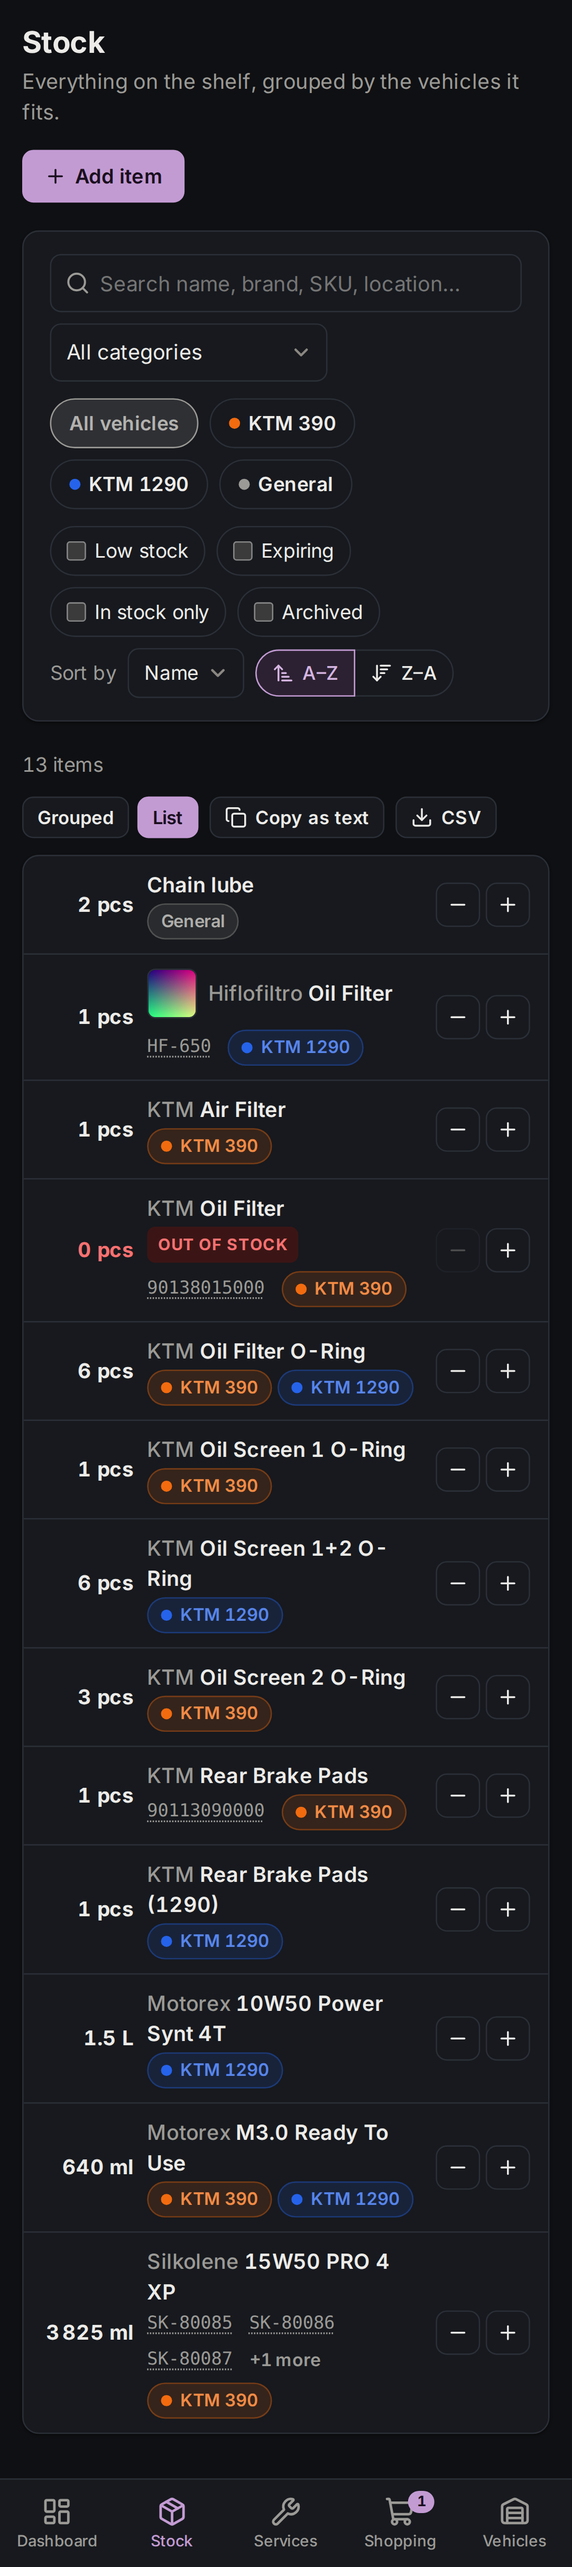
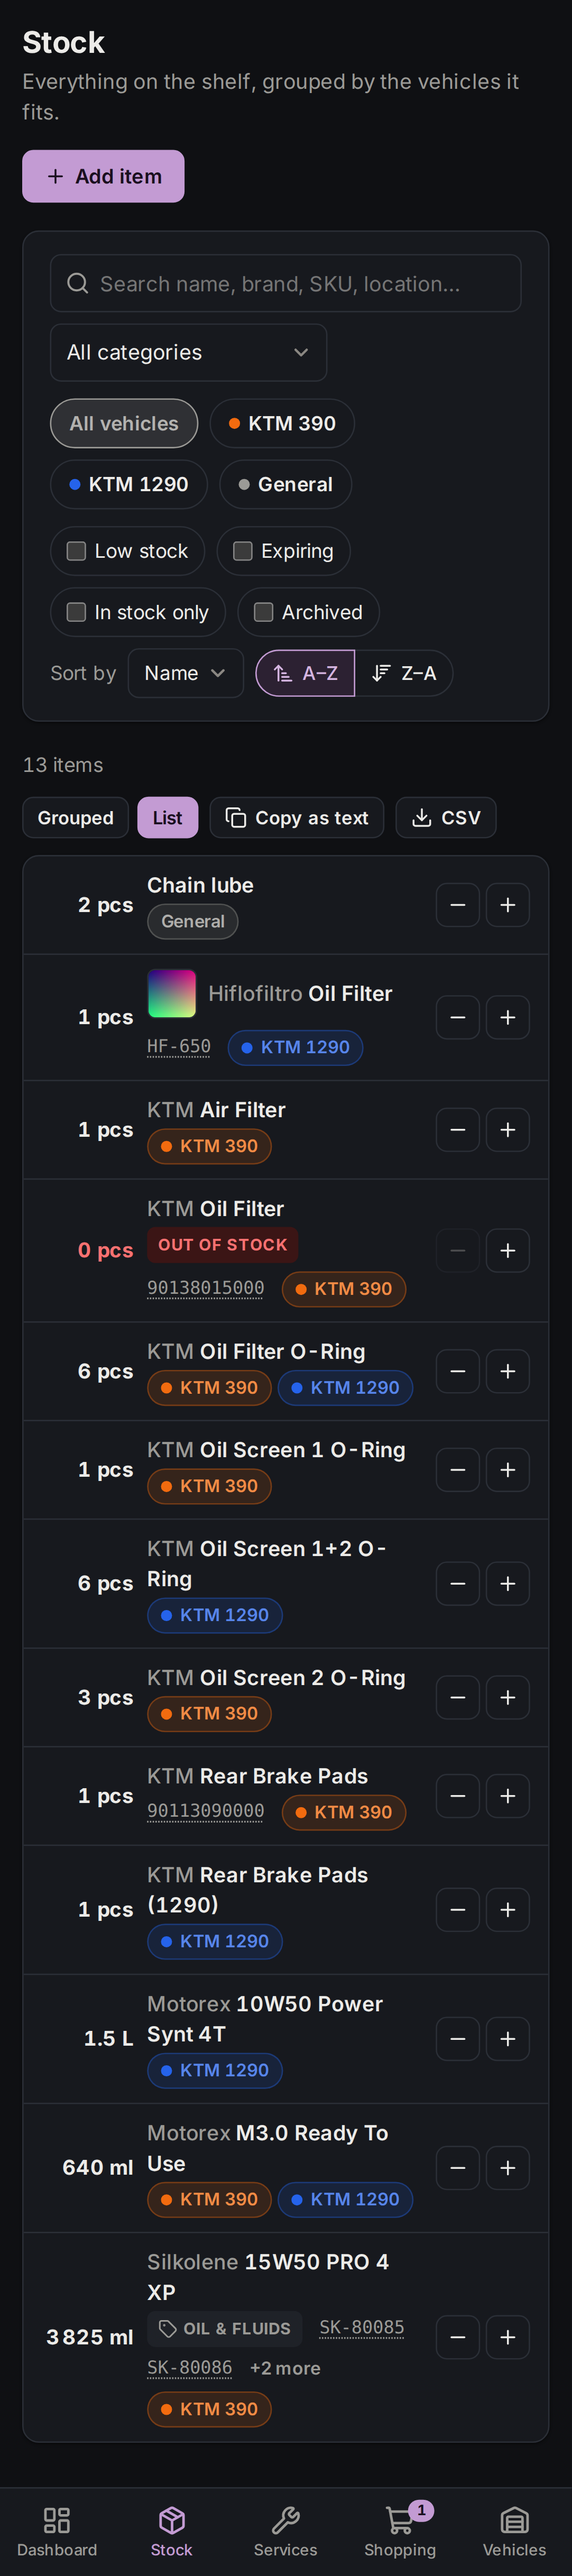
feat: display category tag in stock rows and limit visible SKUs to two

diff --git a/e2e/tests/garage.spec.ts b/e2e/tests/garage.spec.ts
@@ -134,18 +134,17 @@ test("filter stock by vehicle and copy it as text", async ({ page, context }, te
   await expect(page.locator(".item-row")).toHaveCount(1);
   await expect(page.locator(".item-row")).toContainText("Hiflofiltro");
 
-  // Only three part numbers show in a row; "+1 more" reveals the rest in place.
+  // Only two part numbers show in a row; "+2 more" reveals the rest in place.
   const silk = page.locator(".item-row").filter({ hasText: "Silkolene" });
   await page.goto("/stock");
-  await expect(silk.locator(".sku:visible")).toHaveCount(3);
-  await silk.getByRole("link", { name: "Show 1 more part number" }).click();
+  await expect(silk.locator(".sku:visible")).toHaveCount(2);
+  await silk.getByRole("link", { name: "Show 2 more part numbers" }).click();
   await expect(page).toHaveURL(/\/stock$/);
   await expect(silk.locator(".sku:visible")).toHaveCount(4);
-  await expect(silk.getByRole("link", { name: "SK-80088" })).toBeFocused();
+  await expect(silk.getByRole("link", { name: "SK-80087" })).toBeFocused();
 
-  // The category sits next to the vehicle chips and links back to the filtered stock.
-  await silk.locator(".item-name").click();
-  await page.getByRole("link", { name: "Oil & Fluids" }).click();
+  // The category tag sits on the row and links to the filtered stock.
+  await silk.getByRole("link", { name: "Oil & Fluids" }).click();
   await expect(page).toHaveURL(/cat=Oil(\+|%20)%26(\+|%20)Fluids/);
   await expect(page.locator(".item-row")).toHaveCount(1);
 });

diff --git a/internal/web/templates/partials/common.html b/internal/web/templates/partials/common.html
@@ -147,7 +147,8 @@
       {{if $it.Archived}}{{template "archived-badge" $it.ArchivedAt}}{{end}}
       {{template "stock-badge" $it}}
       {{template "expiry-badge" $it}}
-      {{$skus := $it.DisplaySKUs}}{{range $i, $s := $skus}}<a class="sku sku-link" href="{{skuSearch $s.Code $s.Brand}}" target="_blank" rel="noopener noreferrer" title="{{$s.Kind.Label}}{{with $s.Brand}} · {{.}}{{end}} — {{skuSearchTitle}}"{{if ge $i 3}} hidden{{end}}>{{$s.Code}}</a>{{end}}{{if gt (len $skus) 3}}<a class="sku-more" href="/items/{{$it.ID}}" data-reveal-skus aria-label="Show {{plural (add (len $skus) -3) "more part number"}}">+{{add (len $skus) -3}} more</a>{{end}}
+      {{with $it.Category}}<a class="badge badge-muted" href="/stock?cat={{.}}" title="Show all {{.}} in stock">{{icon "tag"}} {{.}}</a>{{end}}
+      {{$skus := $it.DisplaySKUs}}{{range $i, $s := $skus}}<a class="sku sku-link" href="{{skuSearch $s.Code $s.Brand}}" target="_blank" rel="noopener noreferrer" title="{{$s.Kind.Label}}{{with $s.Brand}} · {{.}}{{end}} — {{skuSearchTitle}}"{{if ge $i 2}} hidden{{end}}>{{$s.Code}}</a>{{end}}{{if gt (len $skus) 2}}<a class="sku-more" href="/items/{{$it.ID}}" data-reveal-skus aria-label="Show {{plural (add (len $skus) -2) "more part number"}}">+{{add (len $skus) -2}} more</a>{{end}}
       {{with $it.Location}}<span>{{icon "map-pin"}} {{.}}</span>{{end}}
       {{if not .HideChips}}{{template "vehicle-chips" (dict "IDs" $it.VehicleIDs "Vehicles" .Vehicles)}}{{end}}
     </div>

diff --git a/internal/web/items_test.go b/internal/web/items_test.go
@@ -494,3 +494,34 @@ func TestEditHeadingsKeepTheSavedName(t *testing.T) {
 		expect(t, page, http.StatusUnprocessableEntity, "<h1>"+tt.want+"</h1>")
 	}
 }
+
+func TestStockRowCategoryAndSKUThreshold(t *testing.T) {
+	a := newApp(t)
+	a.seed()
+
+	// Create an item with a category and 4 SKUs
+	rec := a.post("/items", url.Values{
+		"name":     {"Air Filter Pro"},
+		"brand":    {"TwinAir"},
+		"category": {"Filters"},
+		"unit":     {"piece"},
+		"sku_code": {"TA-001", "TA-002", "TA-003", "TA-004"},
+		"sku_kind": {"manufacturer", "manufacturer", "manufacturer", "manufacturer"},
+	})
+	expect(t, rec, http.StatusSeeOther)
+
+	// In the stock list, the row displays:
+	// 1. The category badge linking to /stock?cat=Filters
+	// 2. The first 2 SKUs visible, and remaining hidden with "+2 more"
+	stockPage := a.get("/stock")
+	expect(t, stockPage, http.StatusOK,
+		`href="/stock?cat=Filters"`,
+		`title="Show all Filters in stock"`,
+		`Filters</a>`,
+		`>TA-001</a>`,
+		`>TA-002</a>`,
+		`hidden>TA-003</a>`,
+		`hidden>TA-004</a>`,
+		`+2 more</a>`,
+	)
+}
